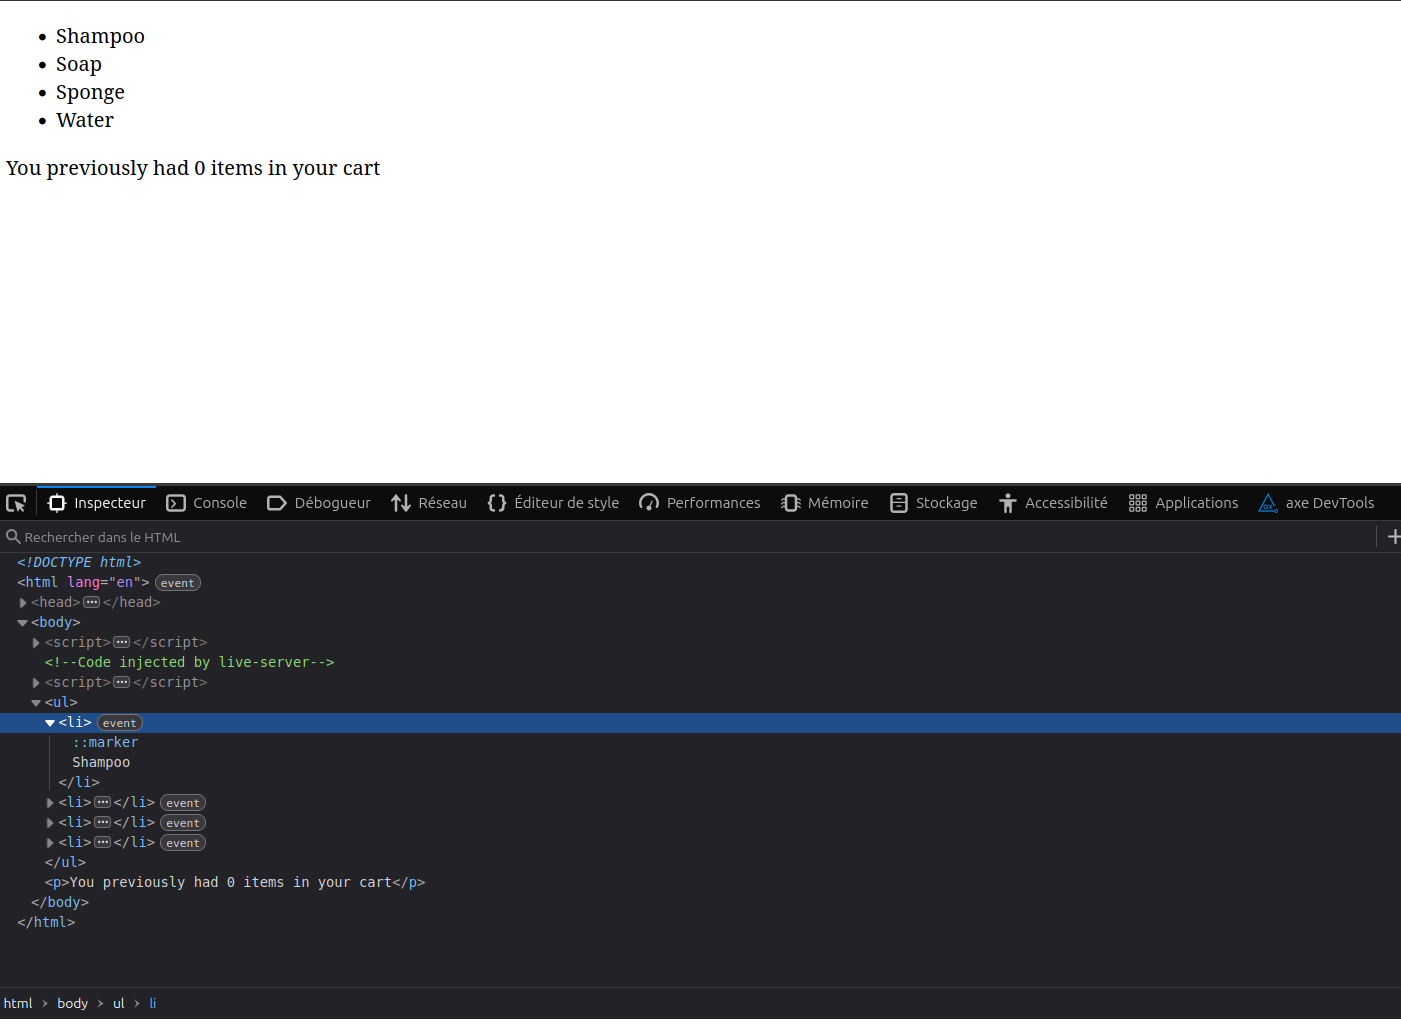
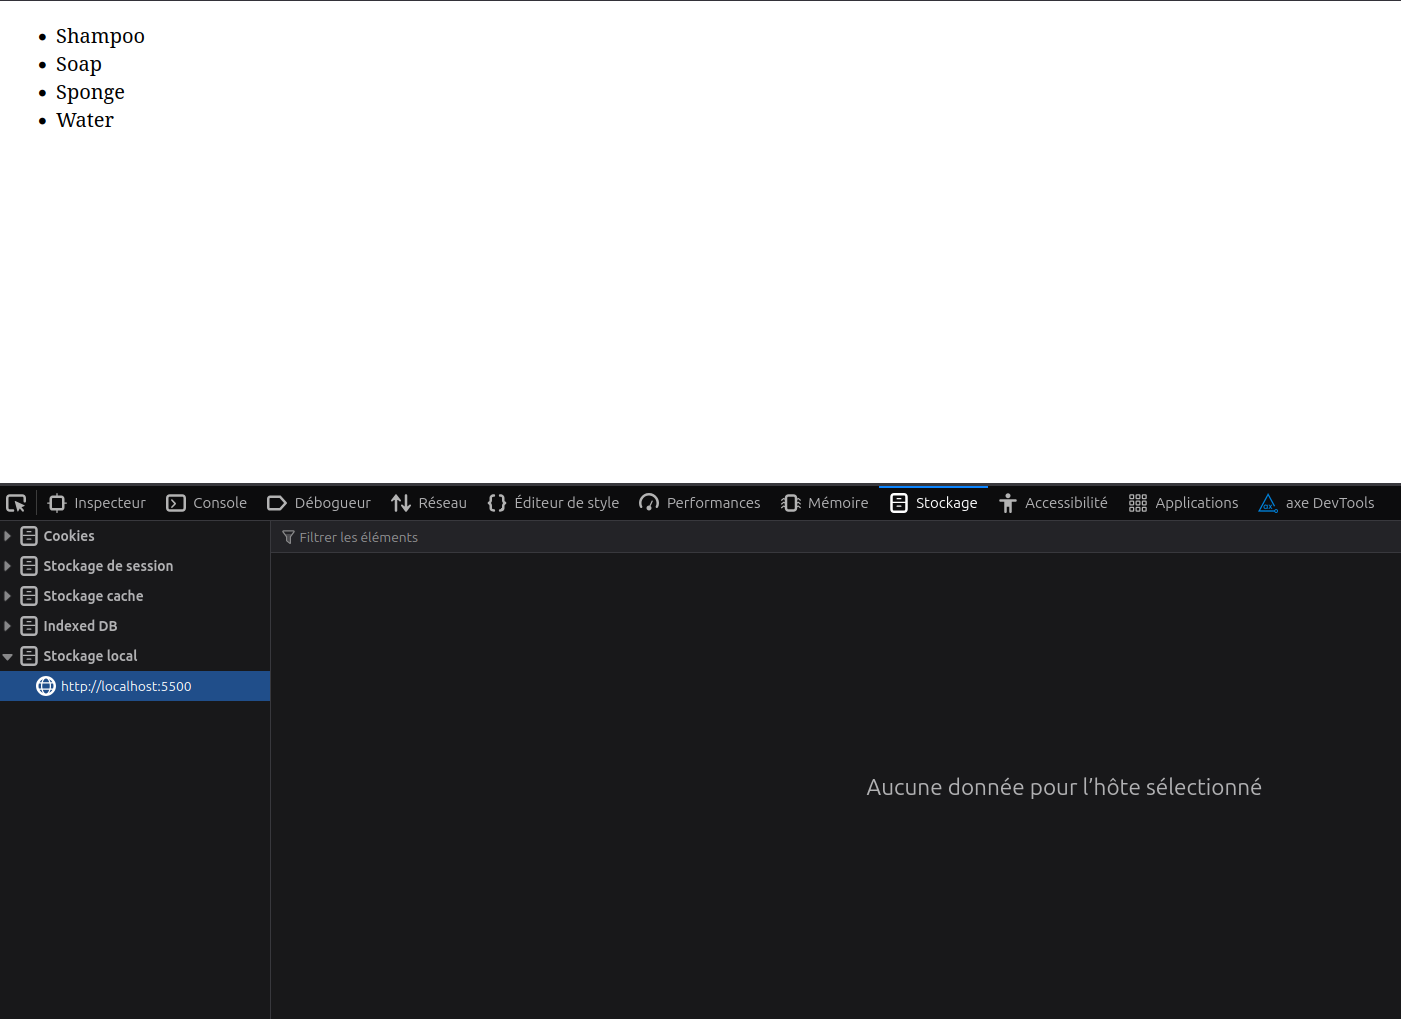
Fix displayCart function

diff --git a/Cookies_local_storage/5-index.html b/Cookies_local_storage/5-index.html
@@ -39,10 +39,12 @@
             const displayCart = () => {
                 // If the local storage does not contain any item, this function does not do anything
                 // If the local storage contains any item, it should display the message You previously had X items in your cart in a p element that you can append to the body
-                const numberOfItems = localStorage.length
-                let checkCart = document.createElement("p");
-                checkCart.textContent = "You previously had " + numberOfItems + " items in your cart"
-                document.body.append(checkCart);
+                if (localStorage.length != 0) {
+                    const numberOfItems = localStorage.length
+                    let checkCart = document.createElement("p");
+                    checkCart.textContent = "You previously had " + numberOfItems + " items in your cart"
+                    document.body.append(checkCart);
+                }
             }
 
             const x = document.getElementById("result");

diff --git a/Cookies_local_storage/README.md b/Cookies_local_storage/README.md
@@ -106,8 +106,6 @@ In this project, we learn about Cookirs and Local Storage
 
 <img src="./img/5-4.png">
 
-<img src="./img/5-5.png">
-
 </details>
 
 <details close><summary>
